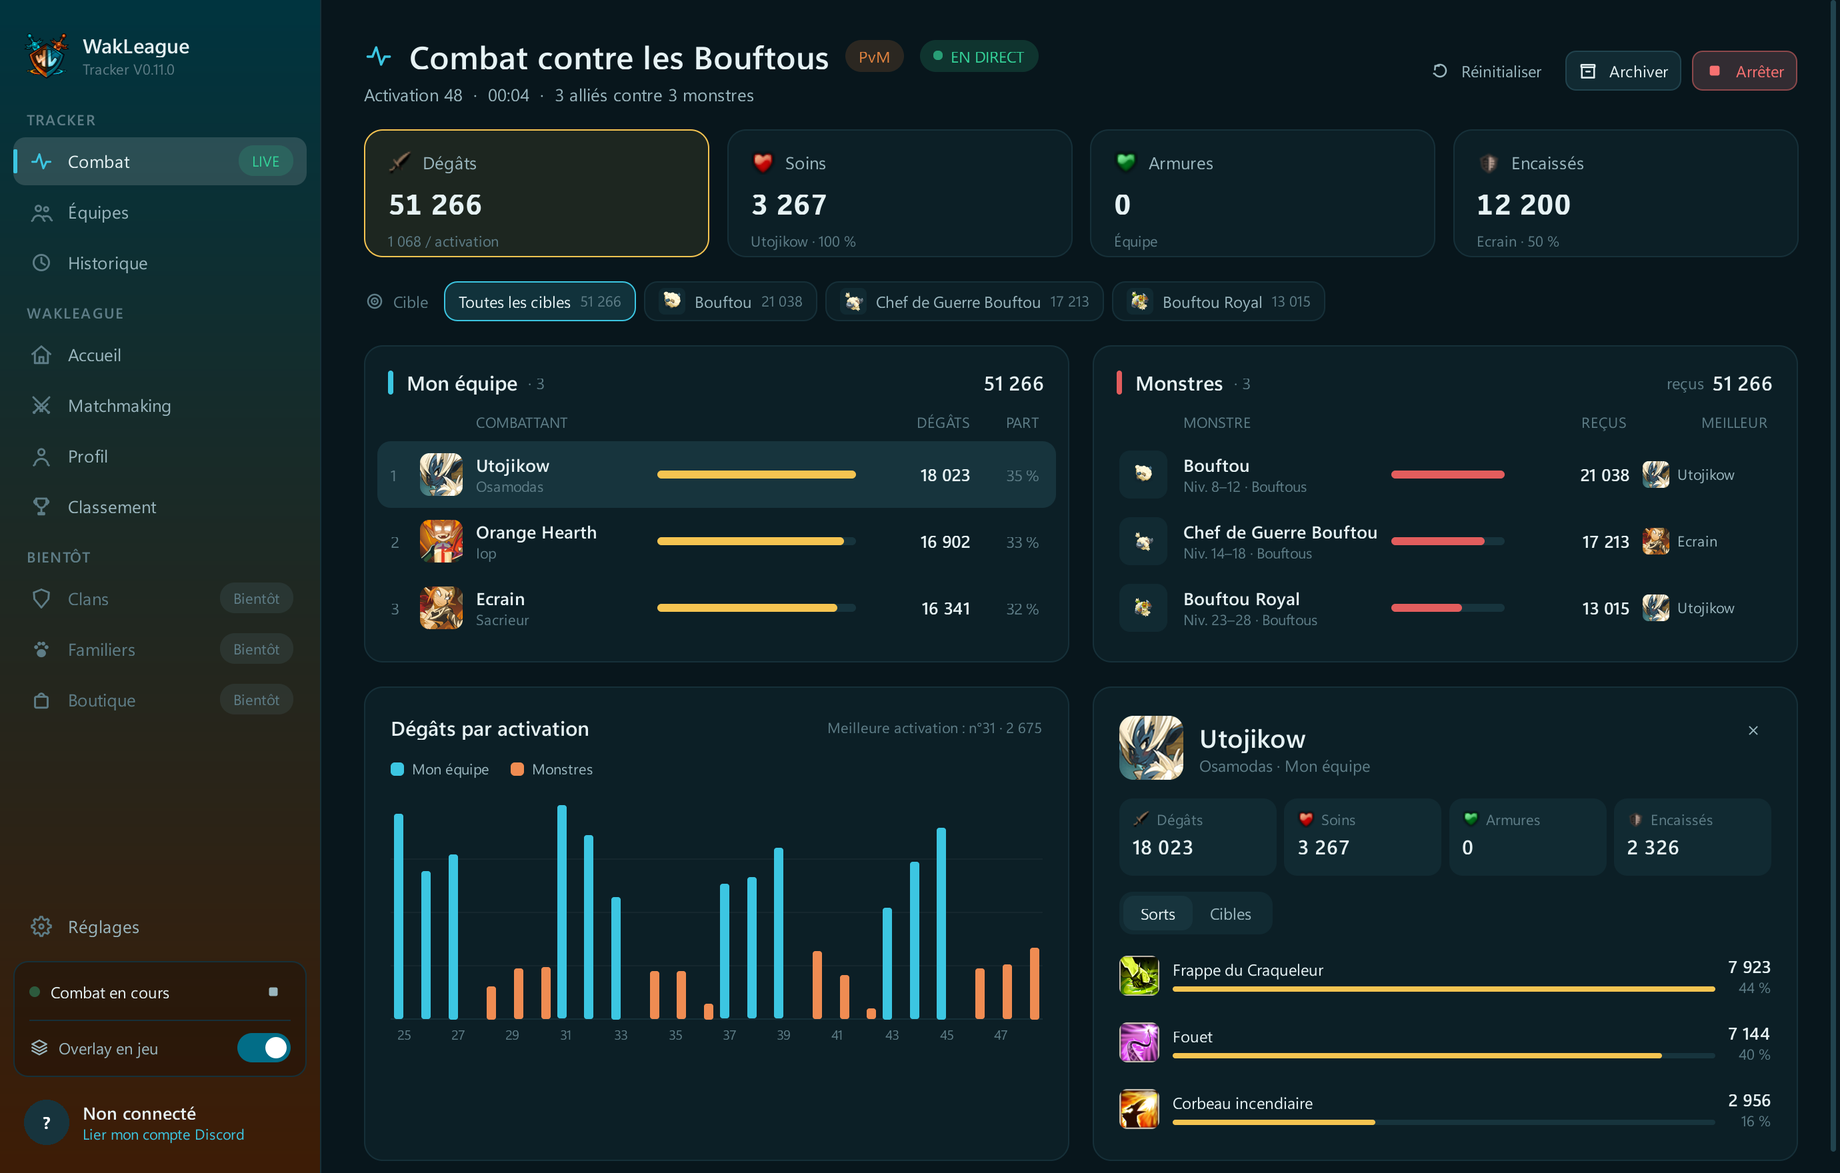
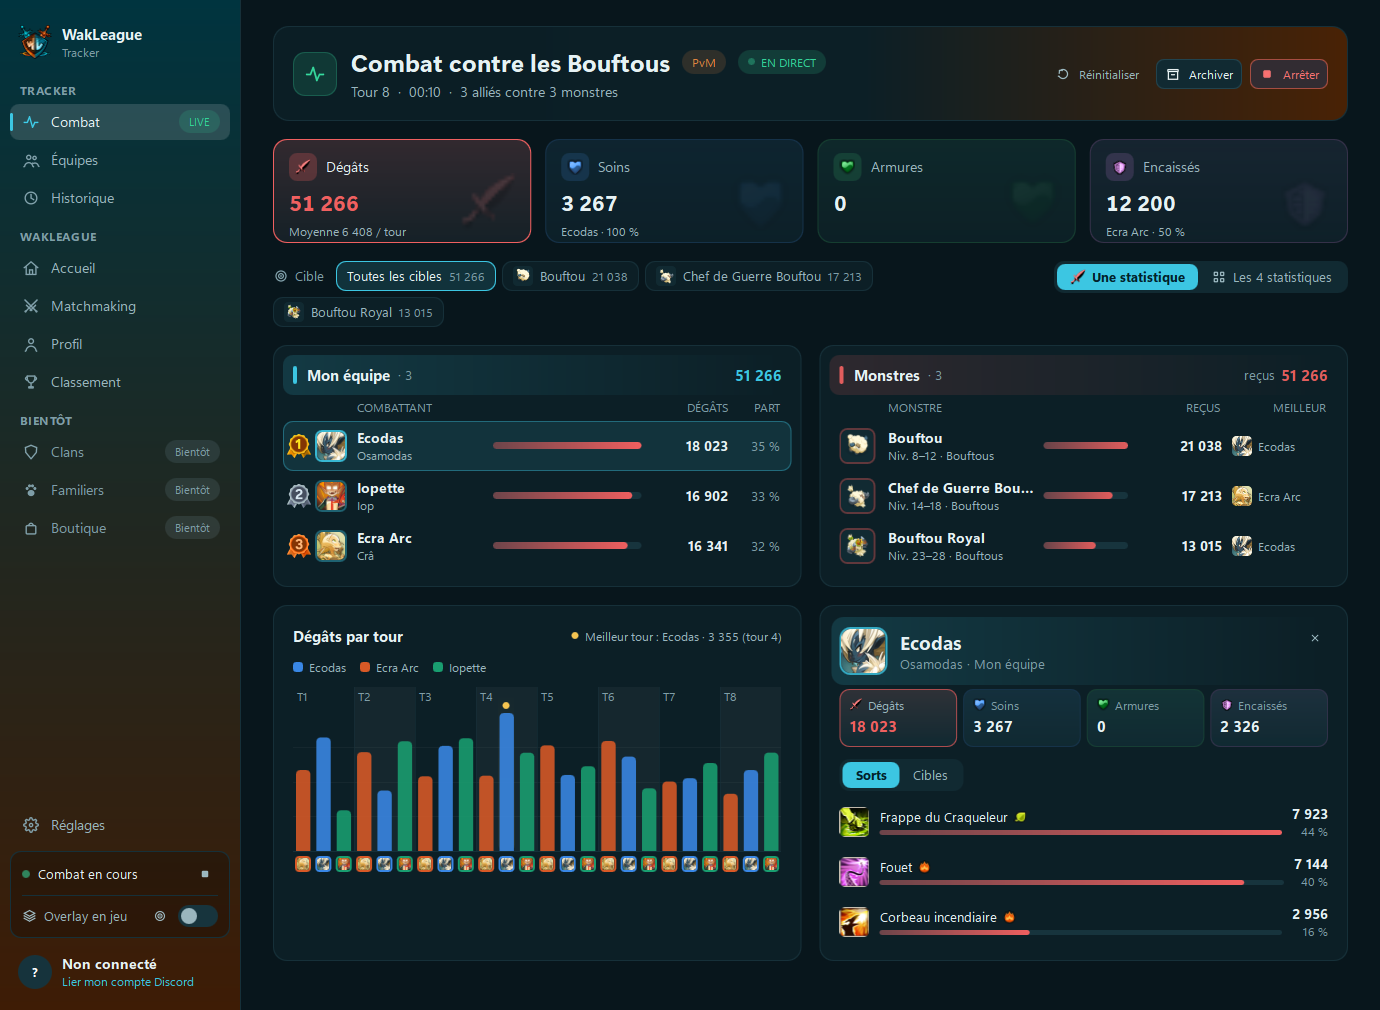
feat(readme): mettre à jour la description de l'overlay et ajouter des images

diff --git a/README.md b/README.md
@@ -16,8 +16,11 @@ Il te sert de trois façons :
   déclaration des personnages, résultat déclaré automatiquement, profil, ELO, classements et quêtes.
 
 <p align="center">
-  <img src="images/overlay.png" width="380" alt="L'overlay en jeu et la fiche d'un joueur">
+  <img src="images/overlay.webp" alt="En jeu : l'overlay des dégâts, la barre des sorts du tour et la fiche d'un joueur">
 </p>
+
+<p align="center"><em>L'overlay est entièrement paramétrable : tu choisis chaque partie affichée (statistiques,
+fiche joueur, sorts du tour), sa place, sa taille et son opacité.</em></p>
 
 ### ⬇ [Télécharger la dernière version](https://github.com/Utojiko/WakLeague-Tracker-Releases/releases/latest)
 
@@ -41,6 +44,10 @@ Tout le tracker fonctionne **sans compte**. Le compte Discord ne sert qu'à la p
 ---
 
 ## L'overlay : l'essentiel en jeu
+
+L'overlay est **entièrement paramétrable** : chaque partie (le panneau de statistiques, la fiche joueur, la barre
+des sorts du tour) s'affiche ou se masque à ton choix et se place où tu veux, indépendamment des autres
+(Réglages › Overlay).
 
 ### L'overlay de statistiques
 
